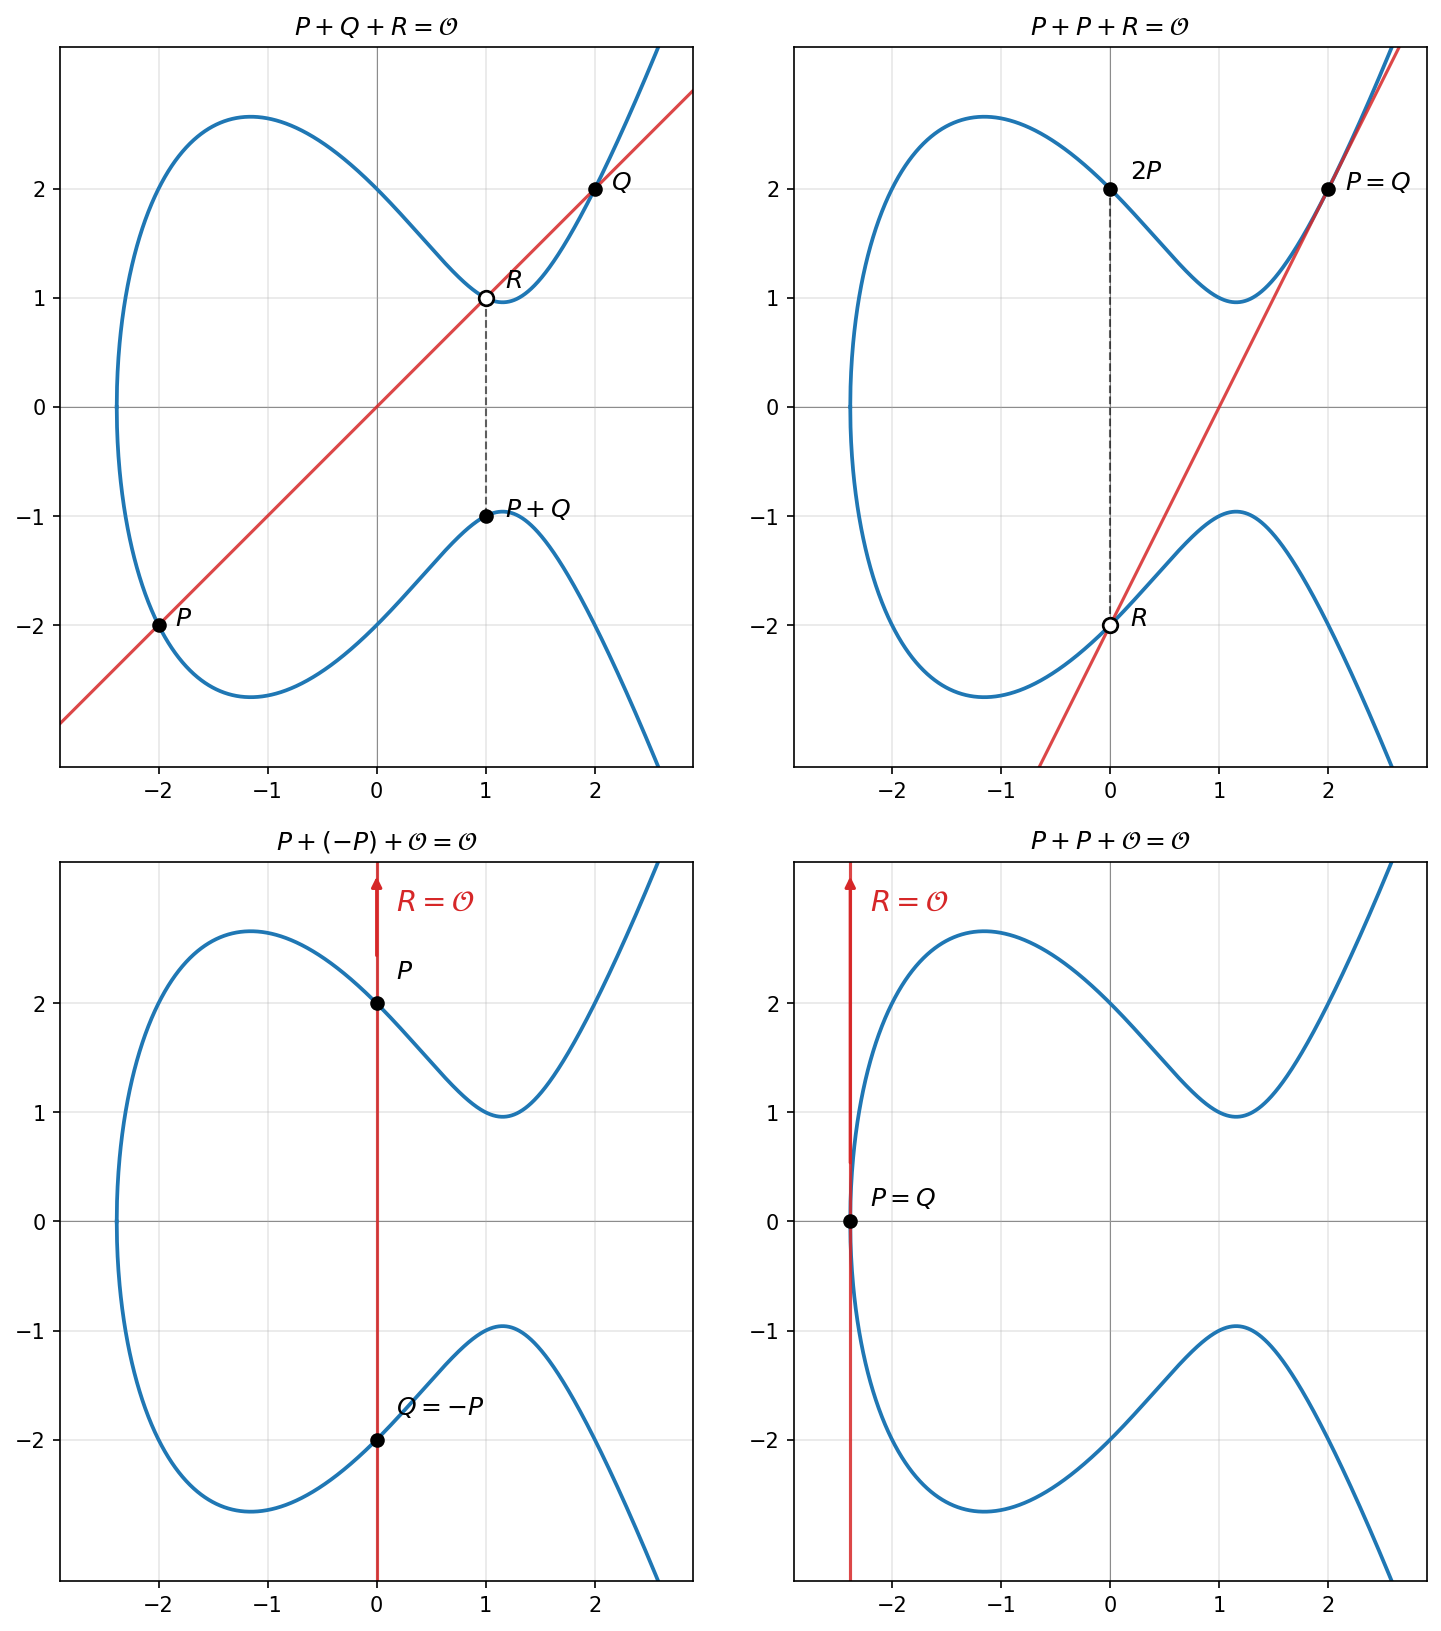
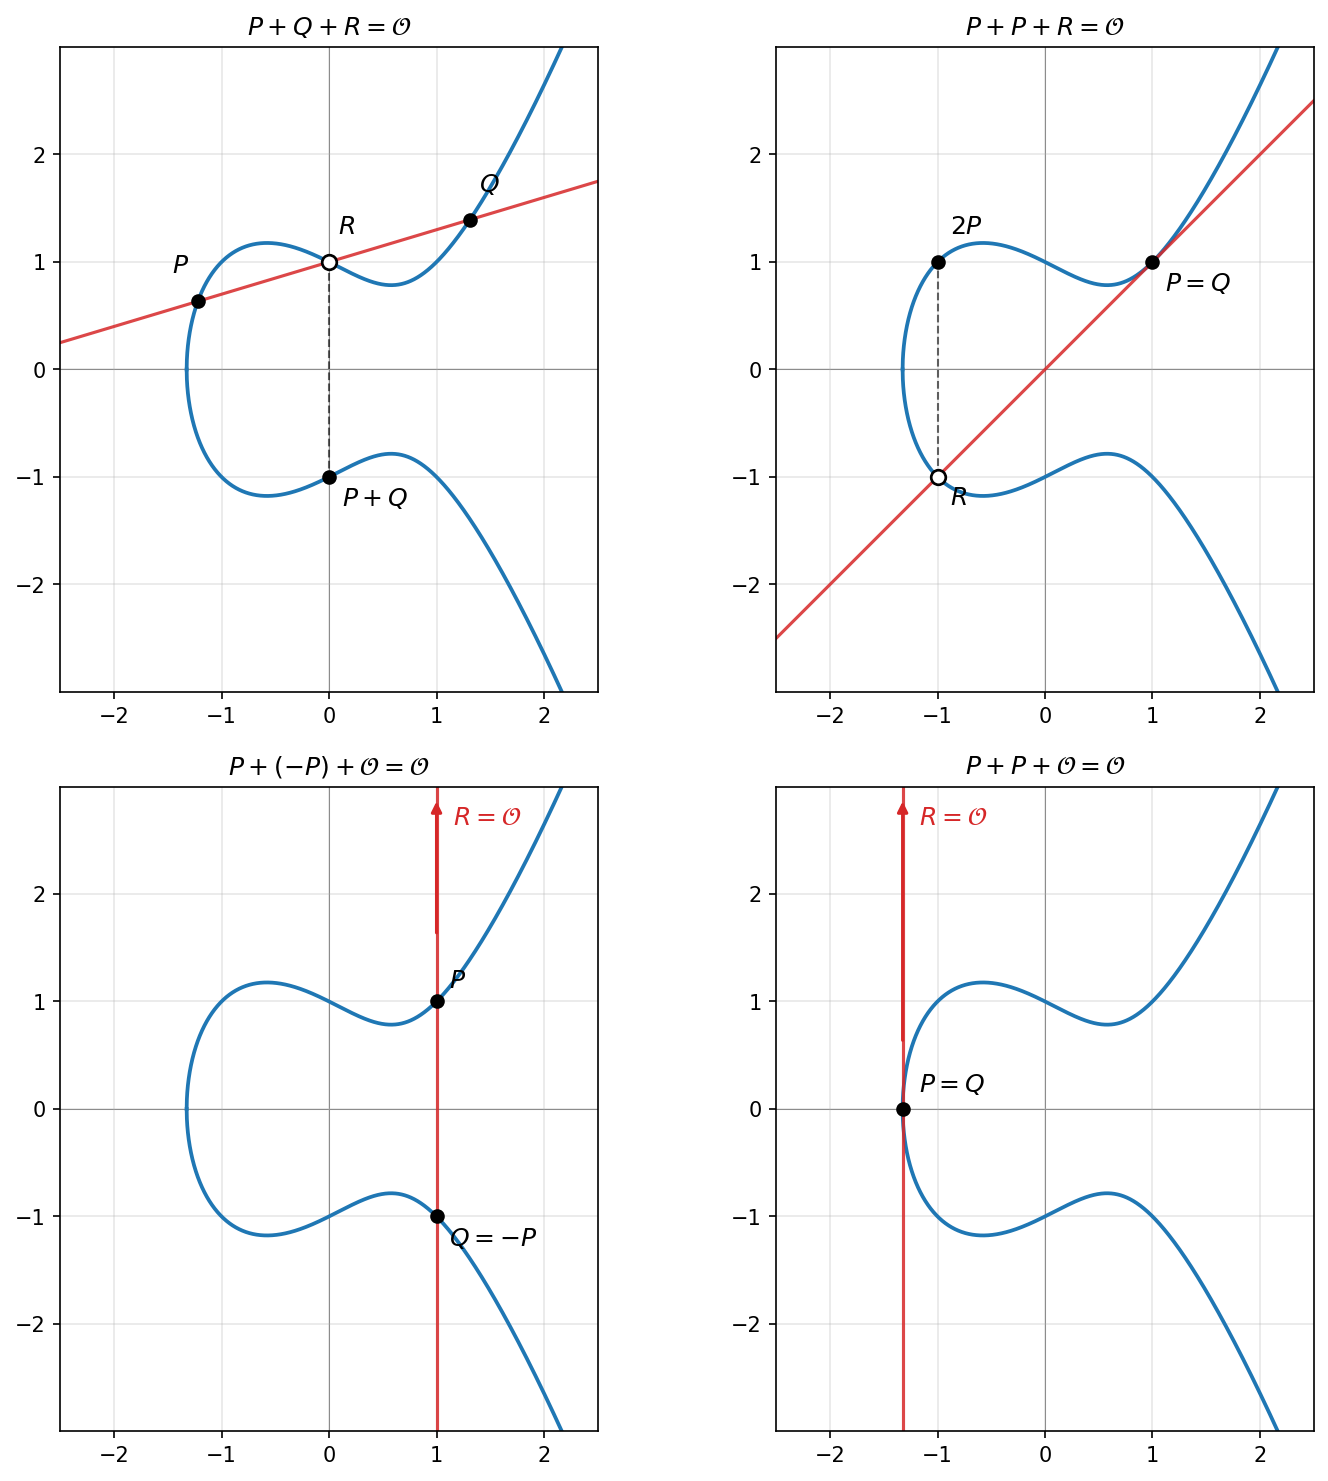
feat(book): elliptic curves

diff --git a/book/src/lec07-elliptic-curves.md b/book/src/lec07-elliptic-curves.md
@@ -1,1 +1,139 @@
 # Eliptičke krive
+
+## Definicija problema
+
+> Da li postoji bolji izbor grupe \\(G\\) od \\(\mathbb{Z}_p^*\\) u protokolima
+> kriptografije javnog ključa zasnovaniom na problemu diskretnog logaritma?
+
+Eliptičke krive nam daju potvrdan odgovor na prethodno pitanje.
+
+## Eliptičke krive nad \\(\mathbb{R}\\)
+
+Posmatrajmo za početak eliptičke krive u skupu realnih brojeva. To su krive
+određene skupom tačaka koje ispunjavaju jednakost \\(y^2 = x^3 + ax + b\\), za
+neke \\(a, b \in \mathbb{R}\\). Kako kriva ne bila degenerisana, potebno je da
+važi \\(4a^3 + 27b^2 \neq 0\\).
+
+![Eliptičke krive](images/ec.png)
+
+Skup tačaka eliptičke krive \\(E\\) zadate pomenutom jednakošću označavamo sa
+\\(E(\mathbb{R})\\). Pretpostavljamo da pored tačaka koje zadovoljavaju
+pomenutu jednakost postoji i "beskonačno daleka tačka" \\(\mathcal{O}\\) (ovo
+je posledica toga da eliptičku krivu zapravo definišemo u projektivnoj ravni).
+
+~~~python
+~~~
+
+### Izvođenje Vajerštrasove forme
+
+### Sabiranje tačaka
+
+Na skupu tačaka \\(E(\mathbb{R})\\) možemo definisati operaciju sabiranja. Neka
+su \\(P\\) i \\(Q\\) dve tačke na eliptičkoj krivoj. Prava kroz \\(P\\) i
+\\(Q\\) seče krivu u nekoj trećoj tački \\(R\\). Sabiranje definišemo tako da
+važi \\(P + Q + R = \mathcal{O}\\). Na slici su prikazana četiri različita
+slučaja u zavisnosti od odnosa tačaka. U prvom slučaju su sve tri tačke
+različite, u drugom je \\(P = Q\\), u trećem je \\(R = \mathcal{O}\\), a u
+četvrtom je \\(P = Q\\) i \\(R = \mathcal{O}\\).
+
+![Sabiranje tačaka na eliptičkoj krivoj](images/ec_add.png)
+
+Na osnovu ovoga možemo izvesti formule za sabiranje tačaka na eliptičkoj
+krivoj. Ako je \\(P = \mathcal{O}\\) onda je \\(P + Q = Q\\), a ako je \\(Q =
+\mathcal{O}\\) onda je \\(P + Q = P\\). Drugim rečima, \\(\mathcal{O}\\) je
+neutral za sabiranje tačaka.
+
+Neka su date koordinate različitih tačaka \\(P: (x_P, y_P)\\) i \\(Q: (x_Q,
+y_Q)\\). Ako je \\(x_P = x_Q\\), onda mora biti \\(y_P = -y_Q\\) (jer su tačke
+različite), pa je \\(P + Q = \mathcal{O}\\). U suprotnom, računamo nagib prave
+kroz \\(P\\) i \\(Q\\) kao \\(s = \frac{y_Q - y_P}{x_Q - x_P}\\). Za svaku tačku
+na pravoj kroz \\(P\\) i \\(Q\\) važi \\(y - y_P = s(x - x_P)\\), a za svaku
+tačku preseka sa krivom važi \\(y^2 = x^3 + ax + b\\). Zamenom prve jednačine u
+drugu dobijamo jednačinu \\((sx - sx_P + y_P)^2 = x^3 + ax + b\\) po \\(x\\).
+Ova jednačina ima tri rešenja (za tri tačke preseka) i njihove vrednosti su
+\\(x_P\\), \\(x_Q\\) i \\(x_R\\). Po Vijetovim formulama važi \\(-(x_P + x_Q +
+x_R) = -s^2\\). Kako je \\(P + Q = -R\\), koordinate zbira su \\(x_R = s^2 -
+x_P - x_Q\\) i \\(y_R = -(s(x_R - x_P) + y_P)\\).
+
+U slučaju da je \\(P = Q\\), \\(s\\) računamo kao nagib tangente na krivu u
+tački \\(P\\). Ovo računamo diferenciranjem obe strane jednačine krive, odnosno
+\\(\frac{d}{dx}y^2 = \frac{d}{dx}(x^3 + ax + b)\\). Dobijamo \\(2y
+\frac{dy}{dx} = 3x^2 + a\\), odnosno \\(s = \frac{dy}{dx} = \frac{3x_P^2 +
+a}{2y_P}\\).
+
+~~~python
+~~~
+
+### Množenje skalarom
+
+Na osnovu sabiranja možemo jednostavno definisati množenje tačke prirodnim
+brojem. Izveli smo formule za \\(2P = P + P\\). Jasno je da onda možemo
+izračunati i \\(3P = 2P + P\\), \\(4P = 3P + P\\), itd. Ako bismo na ovaj način
+računali \\(nP\\), složenost bi bila \\(O(n)\\). Umesto ovoga, možemo primeniti
+isti algoritam kao za efikasno stepenovanje, čija je složenost \\(O(\log n)\\).
+
+~~~python
+~~~
+
+## Eliptičke krive nad \\(\mathbb{F}_q\\)
+
+Eliptičke krive možemo definisati i nad konačnim poljem \\(\mathbb{F}_q\\) na
+isti način, pri čemu su sve vrednosti iz \\(\mathbb{F}_q\\). Za razliku od
+eliptičkih kriva nad realnim brojevima, eliptičke krive nad konačnim poljima
+nemaju jasnu geometrijsku strukturu. Ovo ih čini pogodnim za upotrebu u
+kriptografiji.
+
+![Eliptičke krive nad konačnim poljima](images/ec_fp.png)
+
+Poznato je da je broj tačaka \\(n\\) na eliptičkoj krivoj nad
+\\(\mathbb{F}_q\\) ograničen sa \\(|n - (q + 1)| \leq 2\sqrt{q}\\). Ovaj
+rezultat je poznat kao Haseova teorema.
+
+Problem diskretnog logaritma na eliptičkim krivama je problem rešavanja
+jednačine \\(xG = H\\) gde su \\(G, H \in E(\mathbb{F}_q)\\). Za razliku od
+problema diskretnog logaritma u \\( \mathbb{Z}_p^* \\), najefikasniji algoritmi
+za njegovo rešavanje imaju eksponencijalnu složenost \\(O(\sqrt{n})\\) gde je
+\\(n\\) veličina grupe. Zbog ovoga, u \\(E(\mathbb{F}_q)\\) je moguće koristiti
+znatno manje ključeve nego u \\(\mathbb{Z}_p^*\\).
+
+## Enkodovanje poruke na eliptičkoj krivoj
+
+Kako bismo koristili eliptičke krive u kriptografiji, potrebno je da imamo
+način da preslikamo proizvoljnu poruku \\(m\\) u tačku na eliptičkoj krivoj, i
+obrnuto. Prikazaćemo jedan od načina koje je opisao Koblic.
+
+Pretpostavimo da radimo sa krivom \\(E(\mathbb{F}_p)\\) za prost broj \\(p\\)
+takav da je \\(p \equiv 3 \mod 4\\). Neka je broj \\(m\\) poruka koju želimo da
+enkodujemo. Uzmimo na primer \\(k = 1024\\) i posmatrajmo redom vrednosti
+\\(x_i = km + i\\) za \\(0 \leq i < k\\). Tražimo prvu vrednost \\(x_i\\) takvu
+da je \\(c_i = x_i^3 + ax_i + b\\) kvadrat u \\(\mathbb{F}_p\\). Na osnovu
+Ojlerovog kriterijuma, \\(c_i\\) je kvadrat po modulu \\(p\\) ako i samo ako je
+\\(c_i^{\frac{p-1}{2}} \equiv 1 \mod p\\). Ako je \\(c_i\\) kvadrat, onda
+njegov koren možemo izračunati kao \\(y_i = c_i^{\frac{p+1}{4}} \mod p\\) (zato
+što je onda \\(y_i^2 = (c_i^{\frac{p+1}{4}})^2 = c_i^{\frac{p+1}{2}} =
+c_i^{\frac{p-1}{2}}c_i \equiv c_i \pmod p\\)), što nam daje tačku \\((x_i,
+y_i)\\) na krivoj. Kako je polovina brojeva kvadrat u \\(\mathbb{F}_p\\), jako
+je mala šansa da \\(c_i\\) nije kvadrat ni za jedno \\(i\\). Sa druge strane,
+za datu tačku \\((x, y)\\) jednostavno određujemo poruku \\(m\\) kao \\(\lfloor
+\frac{x}{k} \rfloor\\).
+
+## Protokoli zasnovani na eliptičkim krivama
+
+Kao javni parametar bilo kog protokola potrebno je odabrati eliptičku krivu nad
+nekim konačnim poljem. Biraju se parametri \\(p\\) (koji određuje konačno polje)
+
+### Generisanje ključeva
+
+Generisanje ključeva funkcioniše kao i u do sada opisanim protokolima zasnovanim na problemu diskretnog logaritma.
+
+### Validacija javnog ključa
+
+### Difi-Helman razmena ključa
+
+### ElGamal enkripcija
+
+### ElGamal potpis
+
+### Šnorov potpis
+
+## Zadaci